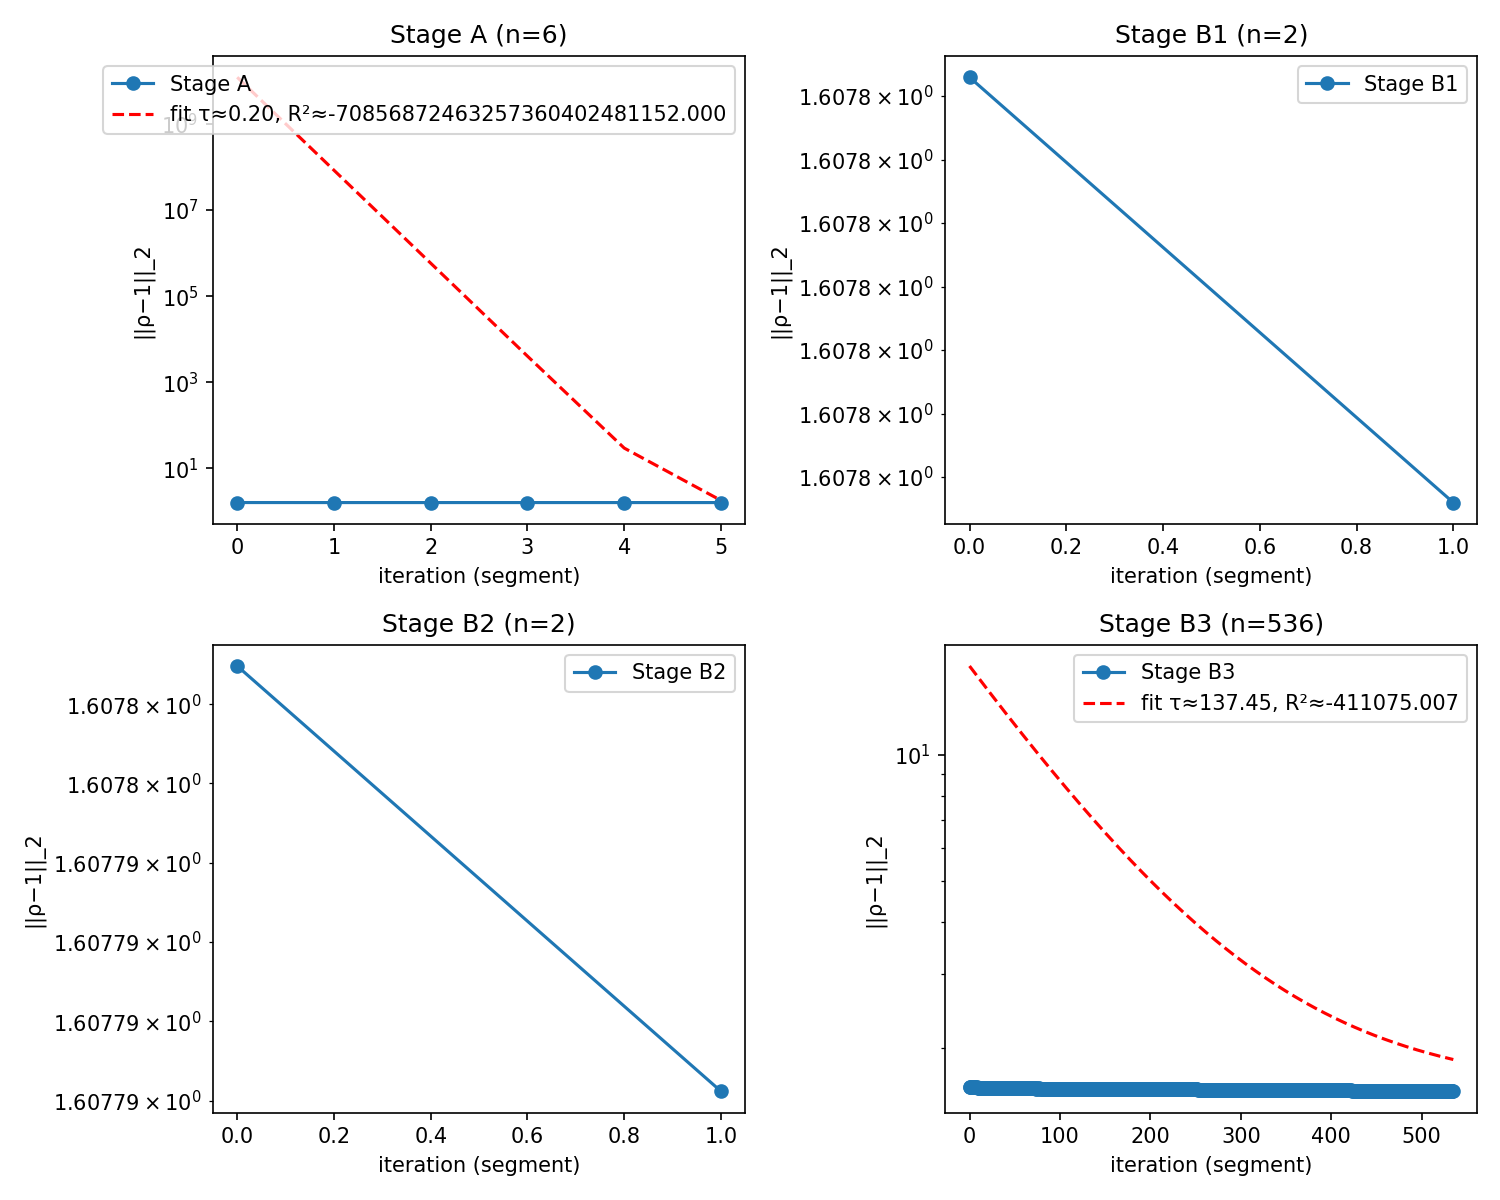
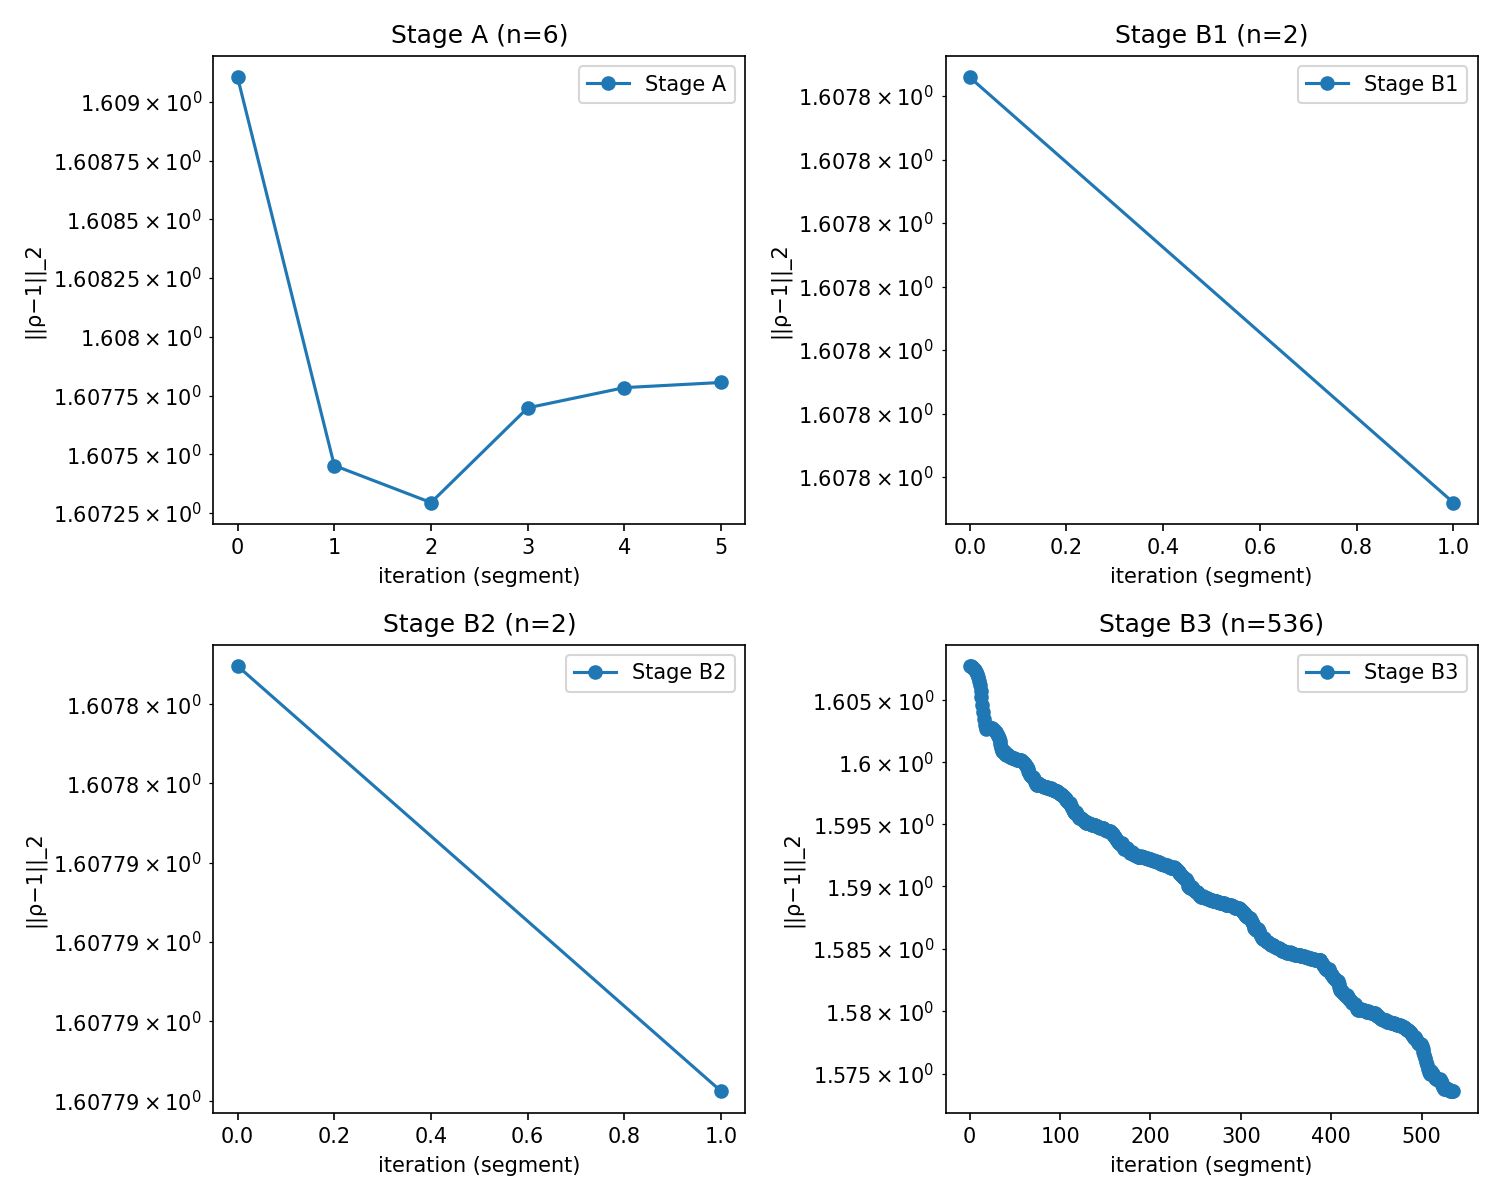
report: Nonlinear piecewise exponential fits (single/double); add CSV and diagnostics
- Script: phase4_unification_enhanced_piecewise_report.py (uses scipy curve_fit)
- Outputs: piecewise report TXT, diagnostic plot PNG, fits CSV

diff --git a/phase4_unification_enhanced_piecewise_report.py b/phase4_unification_enhanced_piecewise_report.py
@@ -8,27 +8,73 @@ import numpy as np
 import matplotlib
 matplotlib.use('Agg')
 import matplotlib.pyplot as plt
+from scipy.optimize import curve_fit
+
+
+def _r2(y: np.ndarray, y_pred: np.ndarray) -> float:
+    ss_res = float(np.sum((y - y_pred) ** 2))
+    ss_tot = float(np.sum((y - np.mean(y)) ** 2)) + 1e-18
+    return 1.0 - ss_res / ss_tot
 
 
 def fit_exp_segment(y: np.ndarray) -> Dict[str, float]:
     n = len(y)
     if n < 3:
-        return dict(A=np.nan, tau=np.nan, C=np.nan, r2=np.nan, n=n)
-    C = float(y[-1])
-    y_shift = np.maximum(y - C, 1e-18)
+        return dict(model='single', A=np.nan, tau=np.nan, C=np.nan, r2=np.nan, n=n)
     t = np.arange(n, dtype=float)
-    X = np.vstack([t, np.ones_like(t)]).T
-    beta, *_ = np.linalg.lstsq(X, -np.log(y_shift), rcond=None)
-    if beta[0] <= 0:
-        tau = np.inf
-    else:
-        tau = 1.0 / beta[0]
-    A = float(math.exp(beta[1]))
-    y_pred = A * np.exp(-t / (tau if tau != np.inf else 1.0)) + C
-    ss_res = float(np.sum((y - y_pred) ** 2))
-    ss_tot = float(np.sum((y - np.mean(y)) ** 2)) + 1e-18
-    r2 = 1.0 - ss_res / ss_tot
-    return dict(A=A, tau=tau, C=C, r2=r2, n=n)
+
+    def f_single(t, A, tau, C):
+        return C + A * np.exp(-t / np.maximum(tau, 1e-12))
+
+    # Initial guesses
+    C0 = float(y[-1])
+    A0 = float(max(y[0] - C0, 1e-12))
+    tau0 = max(n / 10.0, 1.0)
+    try:
+        popt, _ = curve_fit(
+            f_single, t, y,
+            p0=[A0, tau0, C0],
+            bounds=([-np.inf, 1e-6, min(y) - abs(y.ptp())], [np.inf, 1e6, max(y) + abs(y.ptp())]),
+            maxfev=20000,
+        )
+        A, tau, C = float(popt[0]), float(popt[1]), float(popt[2])
+        yfit = f_single(t, A, tau, C)
+        r2 = _r2(y, yfit)
+        return dict(model='single', A=A, tau=tau, C=C, r2=r2, n=n)
+    except Exception:
+        return dict(model='single', A=np.nan, tau=np.nan, C=np.nan, r2=np.nan, n=n)
+
+
+def fit_double_exp_segment(y: np.ndarray) -> Dict[str, float]:
+    n = len(y)
+    if n < 5:
+        return dict(model='double', A1=np.nan, t1=np.nan, A2=np.nan, t2=np.nan, C=np.nan, r2=np.nan, n=n)
+    t = np.arange(n, dtype=float)
+
+    def f_double(t, A1, t1, A2, t2, C):
+        t1 = np.maximum(t1, 1e-12)
+        t2 = np.maximum(t2, 1e-12)
+        return C + A1 * np.exp(-t / t1) + A2 * np.exp(-t / t2)
+
+    C0 = float(y[-1])
+    A0 = float(max(y[0] - C0, 1e-12))
+    A1_0 = 0.7 * A0
+    A2_0 = 0.3 * A0
+    t1_0 = max(n / 20.0, 1.0)
+    t2_0 = max(n / 2.0, 5.0)
+    try:
+        popt, _ = curve_fit(
+            f_double, t, y,
+            p0=[A1_0, t1_0, A2_0, t2_0, C0],
+            bounds=([-np.inf, 1e-6, -np.inf, 1e-6, min(y) - abs(y.ptp())], [np.inf, 1e6, np.inf, 1e6, max(y) + abs(y.ptp())]),
+            maxfev=40000,
+        )
+        A1, t1, A2, t2, C = map(float, popt)
+        yfit = f_double(t, A1, t1, A2, t2, C)
+        r2 = _r2(y, yfit)
+        return dict(model='double', A1=A1, t1=t1, A2=A2, t2=t2, C=C, r2=r2, n=n)
+    except Exception:
+        return dict(model='double', A1=np.nan, t1=np.nan, A2=np.nan, t2=np.nan, C=np.nan, r2=np.nan, n=n)
 
 
 def main() -> None:
@@ -38,13 +84,19 @@ def main() -> None:
     # Extract segments
     yA = np.array(R.get('hist_norm_A', []), dtype=float)
     yB_list = [np.array(seg, dtype=float) for seg in R.get('hist_norm_B_segments', [])]
-    # Fit stage A (fast timescale)
-    fitA = fit_exp_segment(yA) if len(yA) >= 3 else dict(A=np.nan, tau=np.nan, C=np.nan, r2=np.nan, n=len(yA))
-    # Fit each stage B segment individually (slow timescales)
-    fitB_list = [fit_exp_segment(yB) for yB in yB_list]
-    fitB_last = fitB_list[-1] if fitB_list else dict(A=np.nan, tau=np.nan, C=np.nan, r2=np.nan, n=0)
+    # Fit stage A (single and double); choose better by R²
+    fitA_single = fit_exp_segment(yA) if len(yA) >= 3 else dict(model='single', A=np.nan, tau=np.nan, C=np.nan, r2=np.nan, n=len(yA))
+    fitA_double = fit_double_exp_segment(yA) if len(yA) >= 5 else dict(model='double', A1=np.nan, t1=np.nan, A2=np.nan, t2=np.nan, C=np.nan, r2=np.nan, n=len(yA))
+    fitA = fitA_double if (np.isfinite(fitA_double.get('r2', np.nan)) and fitA_double.get('r2', -np.inf) > fitA_single.get('r2', -np.inf)) else fitA_single
+    # Fit Stage B segments similarly
+    fitB_list = []
+    for yB in yB_list:
+        fs = fit_exp_segment(yB)
+        fd = fit_double_exp_segment(yB)
+        fb = fd if (np.isfinite(fd.get('r2', np.nan)) and fd.get('r2', -np.inf) > fs.get('r2', -np.inf)) else fs
+        fitB_list.append(fb)
 
-    # Create diagnostic plots: Stage A and each Stage B segment
+    # Create diagnostic plots: Stage A and each Stage B segment with best-fit (single/double)
     segs = [('Stage A', yA, fitA)] + [(f'Stage B{i+1}', yB_list[i], fitB_list[i]) for i in range(len(yB_list))]
     nplots = len(segs)
     nrows = int(math.ceil(nplots / 2))
@@ -55,10 +107,14 @@ def main() -> None:
         if len(y) > 0:
             t = np.arange(len(y), dtype=float)
             ax.semilogy(t, y, 'o-', label=f'{name}')
-            if np.isfinite(fit.get('tau', np.nan)):
+            if fit.get('model') == 'single' and np.isfinite(fit.get('tau', np.nan)):
                 A = fit['A']; tau = fit['tau']; C = fit['C']
-                yfit = A * np.exp(-t / (tau if tau not in (0, np.inf) else 1.0)) + C
-                ax.semilogy(t, yfit, 'r--', label=f'fit τ≈{tau:.2f}, R²≈{fit["r2"]:.3f}')
+                yfit = C + A * np.exp(-t / (tau if tau not in (0, np.inf) else 1.0))
+                ax.semilogy(t, yfit, 'r--', label=f'single τ≈{tau:.2f}, R²≈{fit["r2"]:.3f}')
+            elif fit.get('model') == 'double' and np.isfinite(fit.get('t1', np.nan)):
+                A1 = fit['A1']; t1 = fit['t1']; A2 = fit['A2']; t2 = fit['t2']; C = fit['C']
+                yfit = C + A1 * np.exp(-t / max(t1, 1e-12)) + A2 * np.exp(-t / max(t2, 1e-12))
+                ax.semilogy(t, yfit, 'r--', label=f'double t1≈{t1:.2f}, t2≈{t2:.2f}, R²≈{fit["r2"]:.3f}')
             ax.set_xlabel('iteration (segment)')
             ax.set_ylabel('||ρ−1||_2')
             ax.set_title(f'{name} (n={len(y)})')
@@ -69,17 +125,50 @@ def main() -> None:
     plt.savefig('outputs/phase4_unification_enhanced_piecewise_decay.png', dpi=150)
     plt.close()
 
-    # Write report
+    # Write human-readable report
     lines: List[str] = []
     lines.append('Piecewise exponential decay report')
     lines.append('')
-    lines.append(f"Stage A (fast): n={fitA.get('n')}, A={fitA.get('A')}, tau={fitA.get('tau')}, C={fitA.get('C')}, R2={fitA.get('r2')}")
+    if fitA.get('model') == 'single':
+        lines.append(f"Stage A (fast, single): n={fitA.get('n')}, A={fitA.get('A')}, tau={fitA.get('tau')}, C={fitA.get('C')}, R2={fitA.get('r2')}")
+    else:
+        lines.append(f"Stage A (fast, double): n={fitA.get('n')}, A1={fitA.get('A1')}, t1={fitA.get('t1')}, A2={fitA.get('A2')}, t2={fitA.get('t2')}, C={fitA.get('C')}, R2={fitA.get('r2')}")
     for i, fb in enumerate(fitB_list):
-        lines.append(f"Stage B{i+1} (slow): n={fb.get('n')}, A={fb.get('A')}, tau={fb.get('tau')}, C={fb.get('C')}, R2={fb.get('r2')}")
+        if fb.get('model') == 'single':
+            lines.append(f"Stage B{i+1} (slow, single): n={fb.get('n')}, A={fb.get('A')}, tau={fb.get('tau')}, C={fb.get('C')}, R2={fb.get('r2')}")
+        else:
+            lines.append(f"Stage B{i+1} (slow, double): n={fb.get('n')}, A1={fb.get('A1')}, t1={fb.get('t1')}, A2={fb.get('A2')}, t2={fb.get('t2')}, C={fb.get('C')}, R2={fb.get('r2')}")
     lines.append('')
     lines.append(f"Composite iters={R.get('iters')}, first_norm={R.get('first_norm')}, last_norm={R.get('last_norm')}")
     with open('outputs/phase4_unification_enhanced_piecewise_report.txt', 'w') as f:
         f.write('\n'.join(lines) + '\n')
+
+    # Write CSV for quantitative analysis
+    import csv
+    csv_rows: List[Dict[str, float]] = []
+    # Stage A row
+    rowA = {'segment': 'Stage A', 'n': fitA.get('n'), 'model': fitA.get('model'), 'R2': fitA.get('r2')}
+    if fitA.get('model') == 'single':
+        rowA.update({'A': fitA.get('A'), 'tau': fitA.get('tau'), 'C': fitA.get('C')})
+    else:
+        rowA.update({'A1': fitA.get('A1'), 't1': fitA.get('t1'), 'A2': fitA.get('A2'), 't2': fitA.get('t2'), 'C': fitA.get('C')})
+    csv_rows.append(rowA)
+    # Stage B rows
+    for i, fb in enumerate(fitB_list):
+        row = {'segment': f'Stage B{i+1}', 'n': fb.get('n'), 'model': fb.get('model'), 'R2': fb.get('r2')}
+        if fb.get('model') == 'single':
+            row.update({'A': fb.get('A'), 'tau': fb.get('tau'), 'C': fb.get('C')})
+        else:
+            row.update({'A1': fb.get('A1'), 't1': fb.get('t1'), 'A2': fb.get('A2'), 't2': fb.get('t2'), 'C': fb.get('C')})
+        csv_rows.append(row)
+
+    # Determine all CSV fieldnames
+    fieldnames = sorted({k for r in csv_rows for k in r.keys()})
+    with open('outputs/phase4_unification_enhanced_piecewise_fits.csv', 'w', newline='') as cf:
+        writer = csv.DictWriter(cf, fieldnames=fieldnames)
+        writer.writeheader()
+        for r in csv_rows:
+            writer.writerow(r)
 
     print('Piecewise report complete.')
 
